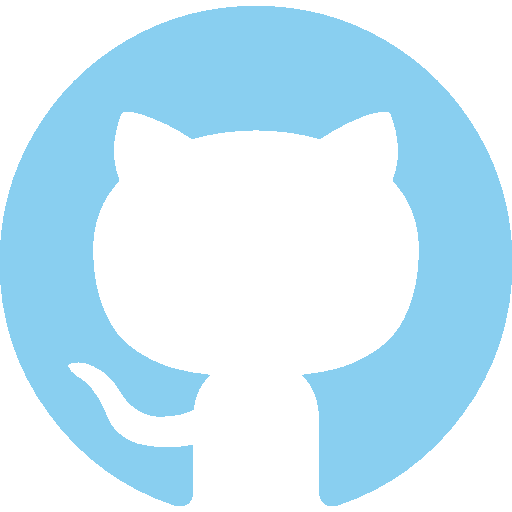
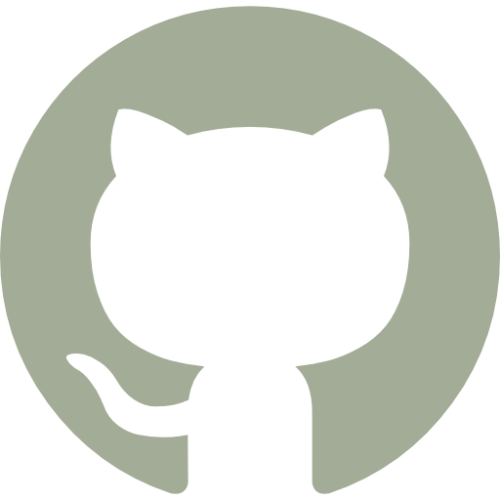
Change colors

diff --git a/src/App.jsx b/src/App.jsx
@@ -25,8 +25,9 @@ function App() {
               scramble: 6,
               seed: 1,
               chance: 1,
-              tick: 1,
-              range: [97, 122], // a-z
+              tick: 2,
+              range: [65,93][98, 122], // a-z
+              overdrive: false,
             }}
           />
           .
@@ -46,7 +47,7 @@ function App() {
           iconSrc={linkedinIcon}
           iconSize={32}
           stringLength={350}
-          stringColor="#cadf9e"
+          stringColor="#E2125F"
           stringWidth={3}
           onClick={() => window.open('https://linkedin.com/in/kushalgadamsetty', '_blank')}
         />
@@ -56,7 +57,7 @@ function App() {
           iconSrc={githubIcon}
           iconSize={32}
           stringLength={450}
-          stringColor="#cadf9e"
+          stringColor="#E2125F"
           stringWidth={3}
           onClick={() => window.open('https://github.com/kushallg', '_blank')}
         />

diff --git a/src/index.css b/src/index.css
@@ -28,6 +28,8 @@ body {
 button:focus,
 button:focus-visible {
   outline: 4px auto -webkit-focus-ring-color;
+  color: #213547;
+  border: 2px solid transparent;
 }
 
 
@@ -35,9 +37,6 @@ button:focus-visible {
   :root {
     color: #213547;
     background-color: #ffffff;
-  }
-  a:hover {
-    color: #747bff;
   }
   button {
     background-color: #f9f9f9;
@@ -84,8 +83,16 @@ margin: -16rem 10rem 0 16rem;
   font-size: 1.25rem; /* text-2xl */
   font-family: monospace; /* font-mono */   
   align-items: center;
+  background-color: black;
+  color: white;
+  box-shadow: 4px 4px 0 0 #cadf9e;
+  border-color: #cadf9e;
+ 
 }
-
-button:hover {
-  border-color: #646cff;
+.resume-button:hover {
+  background-color: #857f74;
+  color: #000;
+  box-shadow: none;
+  transform: translate(-4px, -4px);
+   border-color: black;
 }

diff --git a/src/components/CyclingScrambleText.jsx b/src/components/CyclingScrambleText.jsx
@@ -19,7 +19,7 @@ const CyclingScrambleText = ({
     scramble: 4,
     seed: 2,
     chance: 1.0,
-    range: [65, 125], // A-Z, a-z, and some symbols
+    range: [97, 122], // A-Z, a-z, and some symbols
     playOnMount: true,
     ...scrambleConfig
   });
